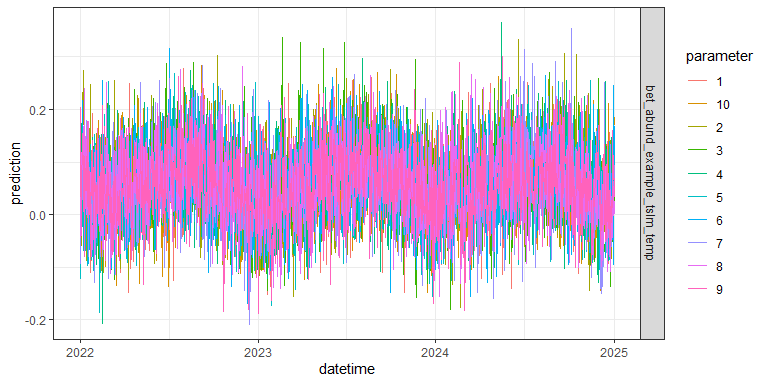
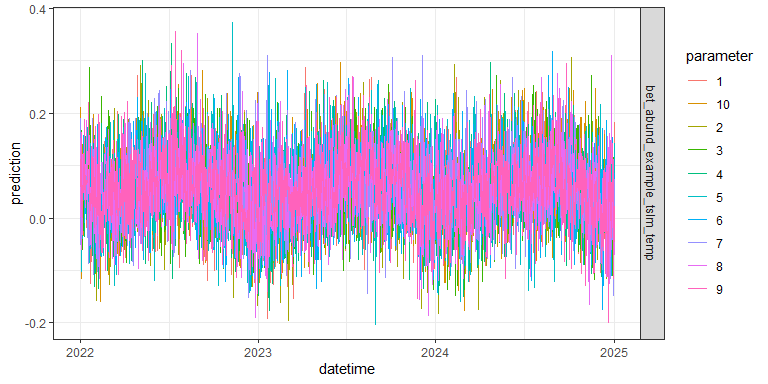
update text and some links

diff --git a/tutorials/ESA2024/NEON_forecast_challenge_beetle_tutorial_ESA2024.md b/tutorials/ESA2024/NEON_forecast_challenge_beetle_tutorial_ESA2024.md
@@ -6,10 +6,10 @@
     Communities](https://projects.ecoforecast.org/neon4cast-docs/Beetles.html)
     theme for the [NEON Ecological Forecast
     Challenge](https://projects.ecoforecast.org/neon4cast-ci/)
--   How to create a simple forecast for the Beetle Communities theme.
--   How to submit/score a forecast to evaluate its accuracy.
+-   How to create a simple forecast for the Beetle Communities theme
+-   How to submit/score a forecast to evaluate its accuracy
 -   How to use the NEON Forecast Challenge resources in your research
-    and teaching.
+    and teaching
 
 ## 1.2 Target user groups for this tutorial
 
@@ -188,11 +188,16 @@ Ordway-Swisher Biological Station
 in Domain 03 (D03) in Florida.
 
 **When**: Target data are available as early as 2013 at some sites, and
-data are available at all sites from 2019 on. Because pitfall trap
-samples need to be sorted and individuals counted and identified, the
-latency for data publication can be nearly a year. In this tutorial we
-will train our models on data from 2013-2021 and we will make forecasts
-for the 2022 season so that we can score them immediately.
+data are available at all sites from 2019 on. Pitfall trap deployments
+are typically two weeks in duration (i.e., a sampling bout lasts two
+weeks), and traps are collected and redeployed throughout the growing
+season at each NEON site. Note that the target data for The Challenge
+are standardized to represent beetle abundance per trap night. Because
+pitfall trap samples need to be sorted and individuals counted and
+identified, the latency for data publication can be nearly a year. In
+this tutorial we will train our models on data from 2013-2021 and we
+will make forecasts for the 2022 season so that we can score them
+immediately.
 
 Check current ground beetle data availability on the [NEON Data
 Portal](https://data.neonscience.org/data-products/DP1.10022.001#:~:text=last_page-,Availability%20and%20Download,-July%202013%20%E2%80%93%20January).
@@ -342,6 +347,23 @@ targets_train <- targets %>%
 
 ## 3.5 Example forecasts: some simple models
 
+In this tutorial, we will begin by producing two “null model” forecasts
+using functions available in the `fable` package for R. The `MEAN` null
+model will forecast abundance based on the historical mean and standard
+deviation in the training data. The `NAIVE` null model is a random walk
+model. We will then use the `TSLM` function to create simple linear
+regression models to predict beetle abundances using daily temperature
+(mean daily temperature at 2m height) and precipitation (daily
+cumulative precipitation) estimates produced from CMIP6 climate model
+runs from 1950-2050. While these data do not represent actual
+observations of temperature and precipitation at the NEON site, they
+have been fit to historical data, so past dates in the simulated data
+should capture general trends at the site and values for future dates
+should represent a realistic forecast of climate variables into the
+future.
+
+An overview of the models we will fit to the data in this tutorial:
+
 -   Null models
     -   `fable::MEAN()`: Historical mean and standard deviation
     -   `fable::NAIVE()`: Random walk
@@ -353,7 +375,19 @@ targets_train <- targets %>%
         runs
     -   Temperature + Precipitation
 
+At the end of this tutorial, we will compare the perfomance of our best
+regression model against the two null models.
+
 ### 3.5.1 Forecast beetle abundance: null models
+
+Here, we fit our two null models to the training data and then create
+forecasts for 2022-2024. Note that we are using a `log(x + 1)` transform
+(using the `log1p()` function) for the abundance data in all of hour
+models. This is a common transform for abundance data for communities,
+which are typically log-normal, but with zeros. We are keeping the model
+simple for this example, but you could substitute generalized linear
+regression models, zero-inflated models, or other approaches better
+model the distribution of beetle abundances.
 
 ``` r
 # specify and fit models
@@ -369,6 +403,8 @@ fc_null <- mod_fits %>%
   fabletools::forecast(h = "3 years") 
 ```
 
+Next, we can visualize our two null model forecasts.
+
 ``` r
 # visualize the forecast
 fc_null %>% 
@@ -382,6 +418,10 @@ fc_null %>%
 Figure: NULL forecasts of ground beetle abundance at OSBS
 </p>
 
+Note the difference in the scale of the y-axis between the two
+forecasts. How might this affect your use of the two different models as
+null models?
+
 ### 3.5.2 Forecast beetle abundance: regression models
 
 Regression on climate model outputs allows us to make predictions about
@@ -394,8 +434,9 @@ example can be found
 [here](https://openmeteo.substack.com/p/climate-change-api).
 
 So we do not overwhelm the open-meteo API, we have made the climate data
-used in this tutorial available as a Community Data resource on CyVerse
-[here](https://de.cyverse.org/data/ds/iplant/home/shared/NEON/ESA2024/forecasting_beetles_workshop?type=folder&resourceId=af152ca6-dc9b-11ee-aacd-90e2ba675364).
+used in this tutorial available as a [Community Data resource on the
+CyVerse Data
+Store](https://de.cyverse.org/data/ds/iplant/home/shared/NEON/ESA2024/forecasting_beetles_workshop?type=folder&resourceId=af152ca6-dc9b-11ee-aacd-90e2ba675364).
 
 The climate data we’re using in this example were generated by the
 CMCC_CM2_VHR4 climate model.
@@ -418,6 +459,9 @@ clim_wide <- clim_long %>%
   pivot_wider(names_from = variable, values_from = prediction)
 ```
 
+Let’s take a look at the data. The dotted line indicates our
+`forecast_startdate`.
+
 ``` r
 # visualize climate data
 clim_long_ts %>%
@@ -435,7 +479,8 @@ clim_long_ts %>%
 Figure: modeled climate data at OSBS
 </p>
 
-Pick output from one model from the climate ensemble:
+Next, we will break up the climate data into a training set
+(`clim_past`) and a dataset to use for forecasting (`clim_future`).
 
 ``` r
 # subset into past and future datasets, based on forecast_startdate
@@ -448,7 +493,7 @@ clim_future <- clim_wide %>%
          datetime <= forecast_enddate)
 ```
 
-Combine target and climate data to make a training dataset:
+Now, combine target and climate data to make a training dataset.
 
 ``` r
 # combine target and climate data into a training dataset
@@ -456,8 +501,8 @@ targets_clim_train <- targets_train %>%
   left_join(clim_past)
 ```
 
-Specify and fit simple linear regression models using `fable::TSLM()`,
-examine model fit statistics.
+Next, specify and fit simple linear regression models using
+`fable::TSLM()`, and examine the model fit statistics.
 
 ``` r
 # specify and fit model
@@ -480,7 +525,7 @@ fabletools::report(mod_fit_candidates)
     ## # ℹ 6 more variables: AICc <dbl>, BIC <dbl>, CV <dbl>, deviance <dbl>,
     ## #   df.residual <int>, rank <int>
 
-Plot the predicted versus observed abundance data:
+Now, plot the predicted versus observed abundance data.
 
 ``` r
 # visualize model fit
@@ -562,6 +607,8 @@ Figure: TSLM forecast of beelte abundance at OSBS
 # an official entry to the challenge
 ```
 
+Does this forecast seem reasonable?
+
 ## 3.6 How to submit a forecast to the NEON Forecast Challenge
 
 Detailed guidelines on how to submit a forecast to the NEON Forecast
@@ -617,8 +664,6 @@ To submit our example forecast, we can take the output from the
 `neon4cast::efi_format()` to format the output for submissions to The
 Challenge. We also need to add a few additional columns.
 
-Make sure all the required columns are included in the forecast output.
-
 ``` r
 # update dataframe of model output for submission
 fc_best_lm_efi <- fc_best_lm %>% 
@@ -640,12 +685,12 @@ head(fc_best_lm_efi)
     ## # A tibble: 6 × 10
     ##   datetime   site_id parameter model_id    family variable prediction project_id
     ##   <date>     <chr>   <chr>     <chr>       <chr>  <chr>         <dbl> <chr>     
-    ## 1 2022-01-01 OSBS    1         bet_abund_… ensem… abundan…     0.0376 neon4cast 
-    ## 2 2022-01-01 OSBS    2         bet_abund_… ensem… abundan…     0.0476 neon4cast 
-    ## 3 2022-01-01 OSBS    3         bet_abund_… ensem… abundan…    -0.0509 neon4cast 
-    ## 4 2022-01-01 OSBS    4         bet_abund_… ensem… abundan…     0.116  neon4cast 
-    ## 5 2022-01-01 OSBS    5         bet_abund_… ensem… abundan…    -0.123  neon4cast 
-    ## 6 2022-01-01 OSBS    6         bet_abund_… ensem… abundan…     0.0524 neon4cast 
+    ## 1 2022-01-01 OSBS    1         bet_abund_… ensem… abundan…    0.0691  neon4cast 
+    ## 2 2022-01-01 OSBS    2         bet_abund_… ensem… abundan…   -0.00968 neon4cast 
+    ## 3 2022-01-01 OSBS    3         bet_abund_… ensem… abundan…    0.164   neon4cast 
+    ## 4 2022-01-01 OSBS    4         bet_abund_… ensem… abundan…    0.0942  neon4cast 
+    ## 5 2022-01-01 OSBS    5         bet_abund_… ensem… abundan…    0.146   neon4cast 
+    ## 6 2022-01-01 OSBS    6         bet_abund_… ensem… abundan…    0.0499  neon4cast 
     ## # ℹ 2 more variables: reference_datetime <chr>, duration <chr>
 
 ``` r
@@ -665,7 +710,13 @@ Figure: TSLM forecast submission file for OSBS, parameter indicates
 emsemble member
 </p>
 
-Here is how to actually submit the file to The Challenge:
+Lastly, if you feel so inclined, you can submit your forecast outputs
+file as an entry to The Challenge to be scored. If you want to submit a
+file, you will (1) need to [register your
+model](https://forms.gle/kg2Vkpho9BoMXSy57) and (2) you cannot have the
+word “example” in your `filename` or `model_id`. In the example below,
+we are including the “example” text string in the file and model names
+so it is not evaluated as part of the challenge.
 
 ``` r
 # file name format is: theme_name-year-month-day-model_id.csv
@@ -787,8 +838,8 @@ head(mod_scores)
     ## #   quantile10 <dbl>, horizon <drtn>
 
 Are these scores better than our null models? Here, we will score the
-`mod_mean` and `mod_naive`, and combine the null model scores with the
-scores for our `best_lm` forecast above. Then we can compare.
+`mod_mean` and `mod_naive` models, and combine the null model scores
+with the scores for our `best_lm` forecast above. Then we can compare.
 
 ``` r
 # get scores for the mean and naive models
@@ -817,6 +868,9 @@ all_mod_scores <- bind_rows(
   mod_scores %>% mutate(
     reference_datetime = as.character(reference_datetime)))
 ```
+
+Let’s plot the scores. Remember, lower scores indicate better forecast
+accuracy.
 
 ``` r
 all_mod_scores %>%
